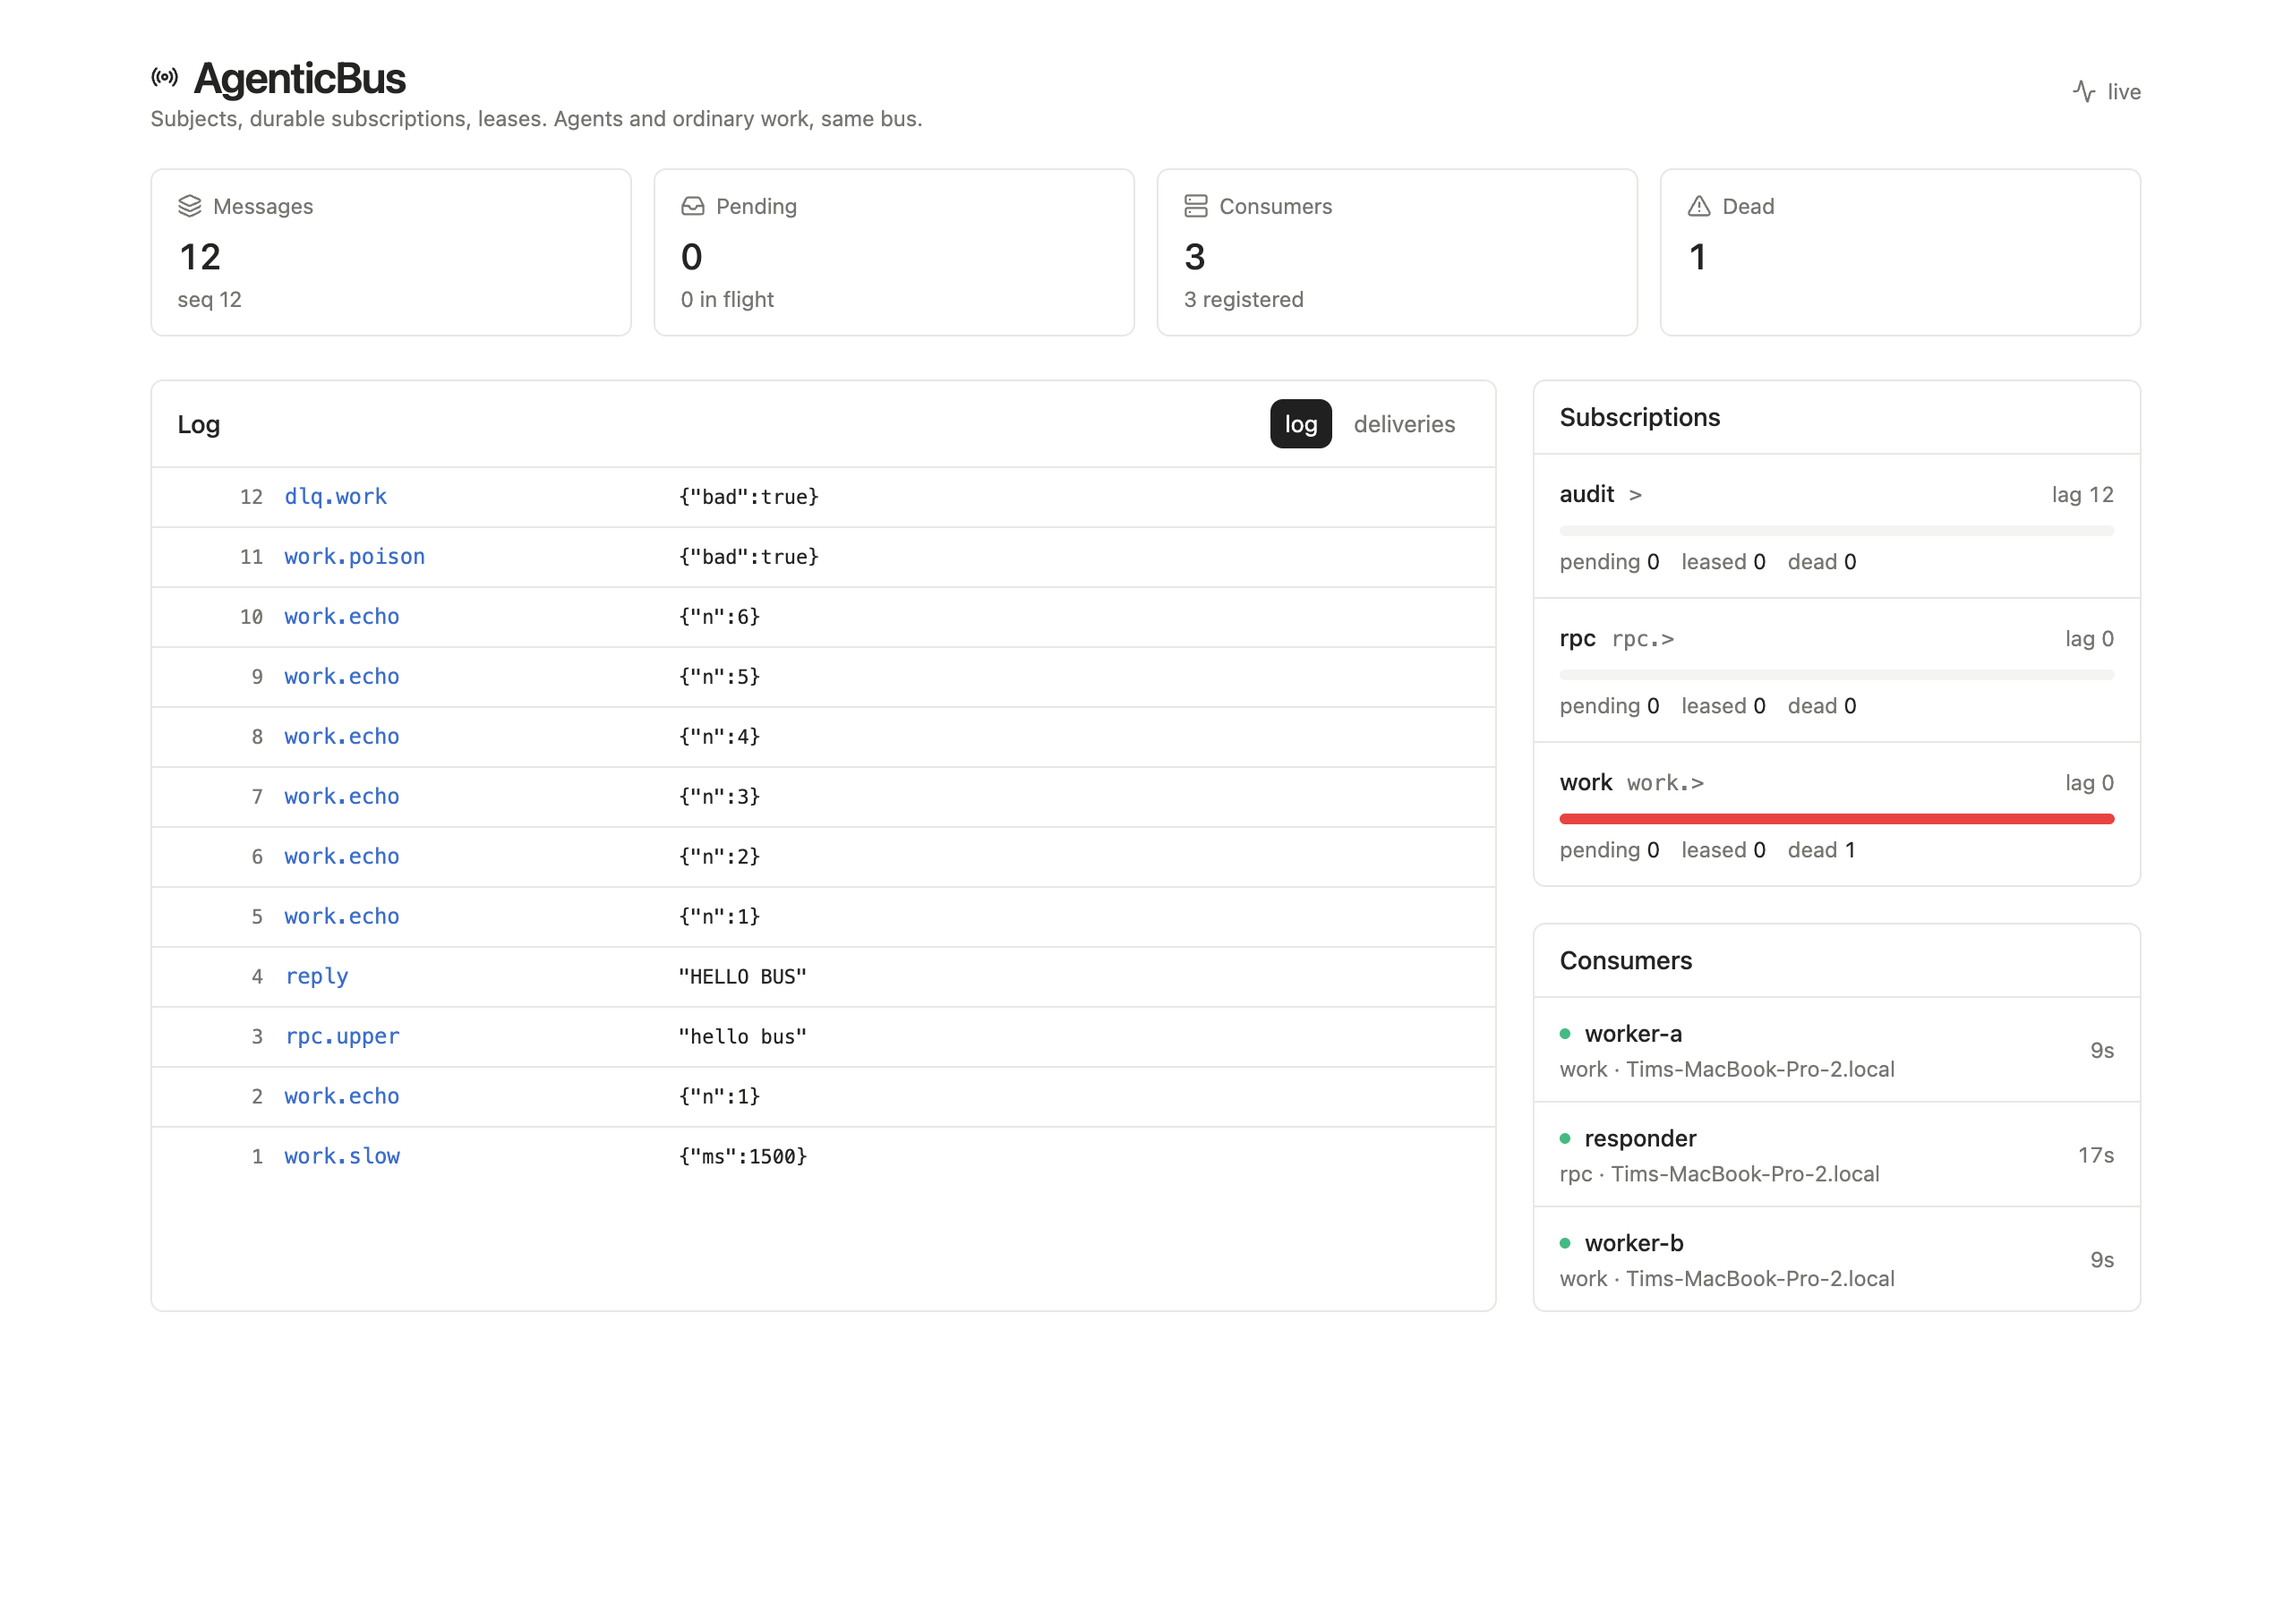
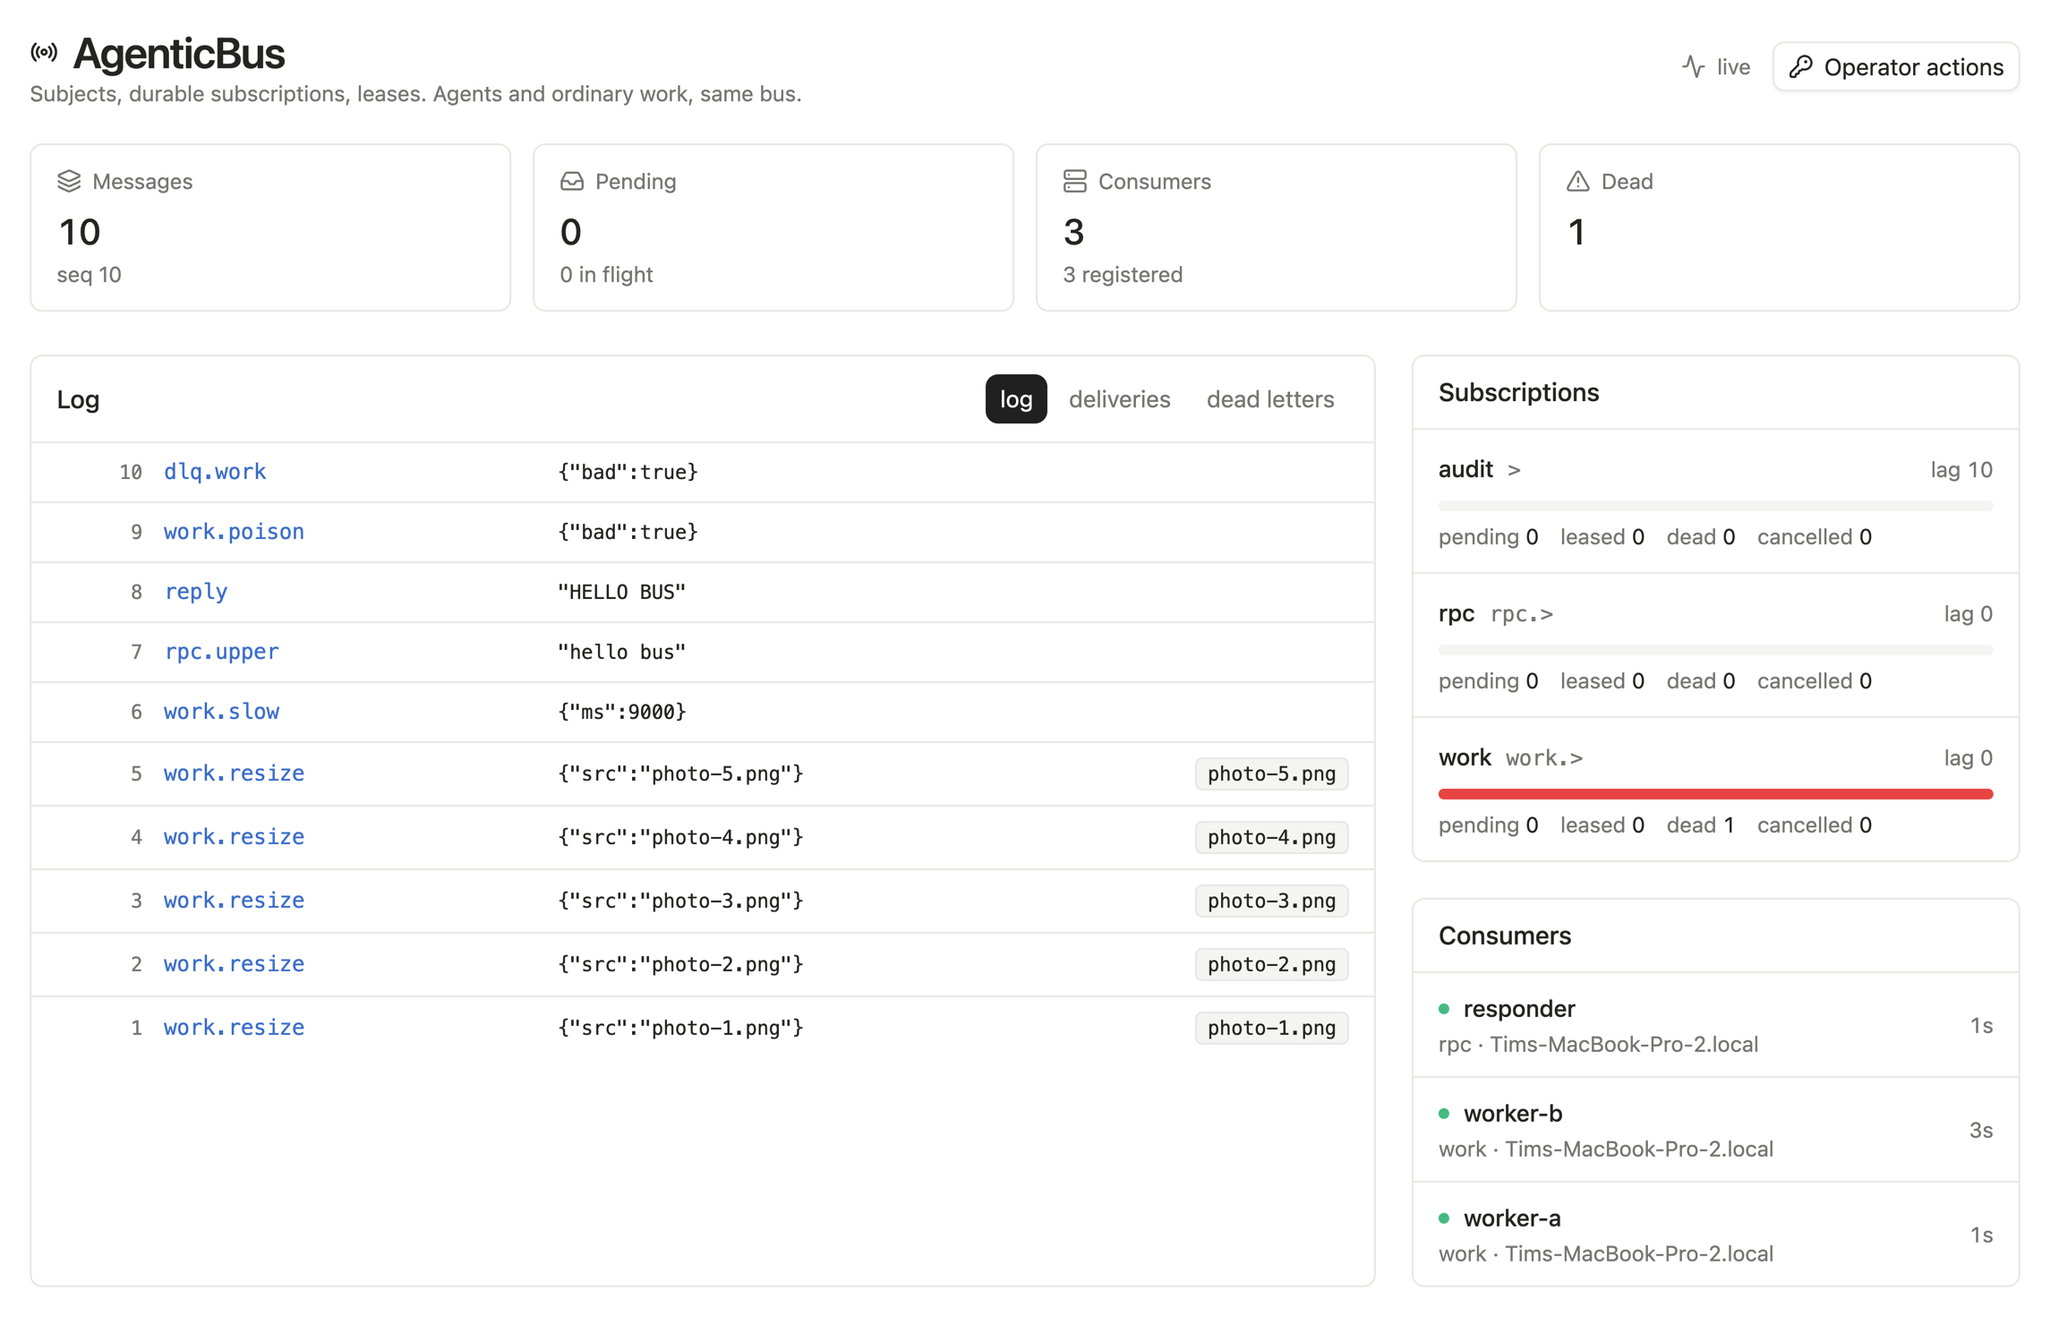
docs: refresh the dashboard screenshot and reconcile both specs with the code
The README's screenshot still showed a two-tab dashboard with no operator
controls. The design spec's API table still listed `/api/snapshot` and
`/api/usage`, which do not exist and have not for some time, and was
missing `/metrics`, requeue and the log's subject filter.

Claude-Session: https://claude.ai/code/session_01Y1SXtfRzF8vi595Rbfw8LJ

diff --git a/docs/superpowers/specs/2026-09-13-finishing.md b/docs/superpowers/specs/2026-09-13-finishing.md
@@ -21,6 +21,7 @@ The assertions are chosen so they can only pass for the right reason:
 | no surprise dead letters | `dead` is zero, with `maxAttempts` set high enough that kills alone cannot exhaust it |
 | per-key FIFO (`--ordered`) | receipts grouped by key must be non-decreasing in seq — a redelivery may repeat a seq, but may never go backwards |
 | the bus itself can die | `--kill-bus` SIGKILLs the broker mid-flight and restarts it on the same file; the log must still hold every message and the run must still drain |
+| a deploy loses nothing | `--term-bus` SIGTERMs it instead, so the drain path is exercised rather than WAL recovery, and `/metrics` is scraped afterwards and must parse |
 
 A killed consumer is restarted under **the same id**, because that is the interesting path: the
 dead process's lease has to expire and be reclaimed, rather than the work quietly moving to a
@@ -28,6 +29,10 @@ fresh name.
 
 Receipts are files rather than messages on a `receipts.>` subject: a receipt that goes through
 the bus is a second thing that can fail, and it would double the load being measured.
+
+Kills are paced by **wall-clock**, not by the message count. The first version derived the
+spacing from the workload, which put most kills after the run had already drained — it passed
+while proving nothing, and the tell was that 12 kills produced one redelivery.
 
 ## 2. Schema versioning
 
@@ -138,7 +143,25 @@ as dagr, for the same reason: one process owns one SQLite file.
 
 The bus stays **loopback-bound by default**. Containers have to bind `0.0.0.0` to receive traffic
 at all, so that is an explicit `BUS_HOST=0.0.0.0` in the image's environment rather than a changed
-default, and the platform terminates TLS in front of it.
+default, and the platform terminates TLS in front of it. `BUS_STATE` is the other half: a
+container relocates the signing key, admin token, database and blobs onto its volume without
+rewriting the command line.
+
+The platform health check is `/health` alone. `/ready` also requires that a consumer has checked
+in recently — a genuine signal, and the wrong one for a check that restarts the machine, because
+a freshly deployed bus with no consumers yet is healthy rather than broken.
+
+Deployed and checked: `agenticbus-demo.fly.dev`, with a consumer on a laptop registering over TLS
+and a request round-tripping through it.
+
+## What is not done
+
+**Publishing to npm.** Everything up to it is: the build, the manifest rewrite, and
+`verify-pack`, which packs the tarball, installs it into an empty directory, imports every
+advertised entry point and runs a bus out of the installed copy. The publish itself needs a
+credential — the stored npm token is rejected with a 401 — so it is one command away rather than
+done. `dagr-remote` keeps its `file:` link to this repo until there is a published version to
+point at; swapping it sooner would break every install in the meantime.
 
 ## What did not change
 

diff --git a/docs/superpowers/specs/2026-09-12-message-bus.md b/docs/superpowers/specs/2026-09-12-message-bus.md
@@ -124,7 +124,10 @@ Retention and TTL deletion are both guarded by "no unfinished delivery of this m
 | `GET` | `/api/stream` | SSE: new sequence numbers |
 | `POST` | `/api/consumers/register`, `/api/consumers/:id/pause` | fleet |
 | `POST` | `/api/tokens` | mint a scoped token (admin) |
-| `GET` | `/api/snapshot`, `/api/usage` | observation |
+| `POST` | `/api/messages/:seq/requeue` | republish a dead letter onto its original subject |
+| `GET` | `/api/log?subject=&newest=` | the log, filtered by subject pattern |
+| `GET` | `/metrics` | Prometheus text (read token) |
+| `GET` | `/health`, `/ready` | no token; `/ready` is 503 while draining |
 
 ## Security
 
